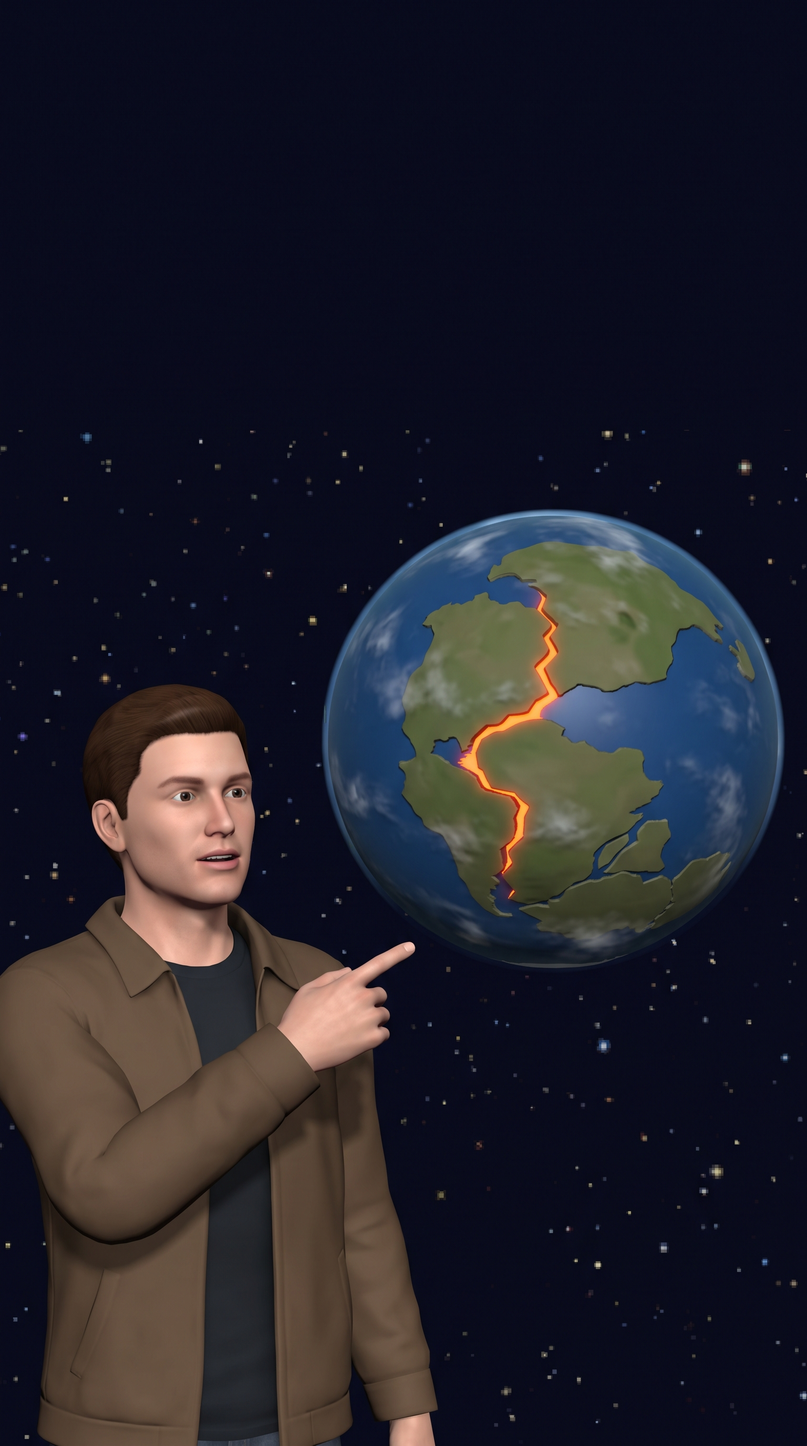
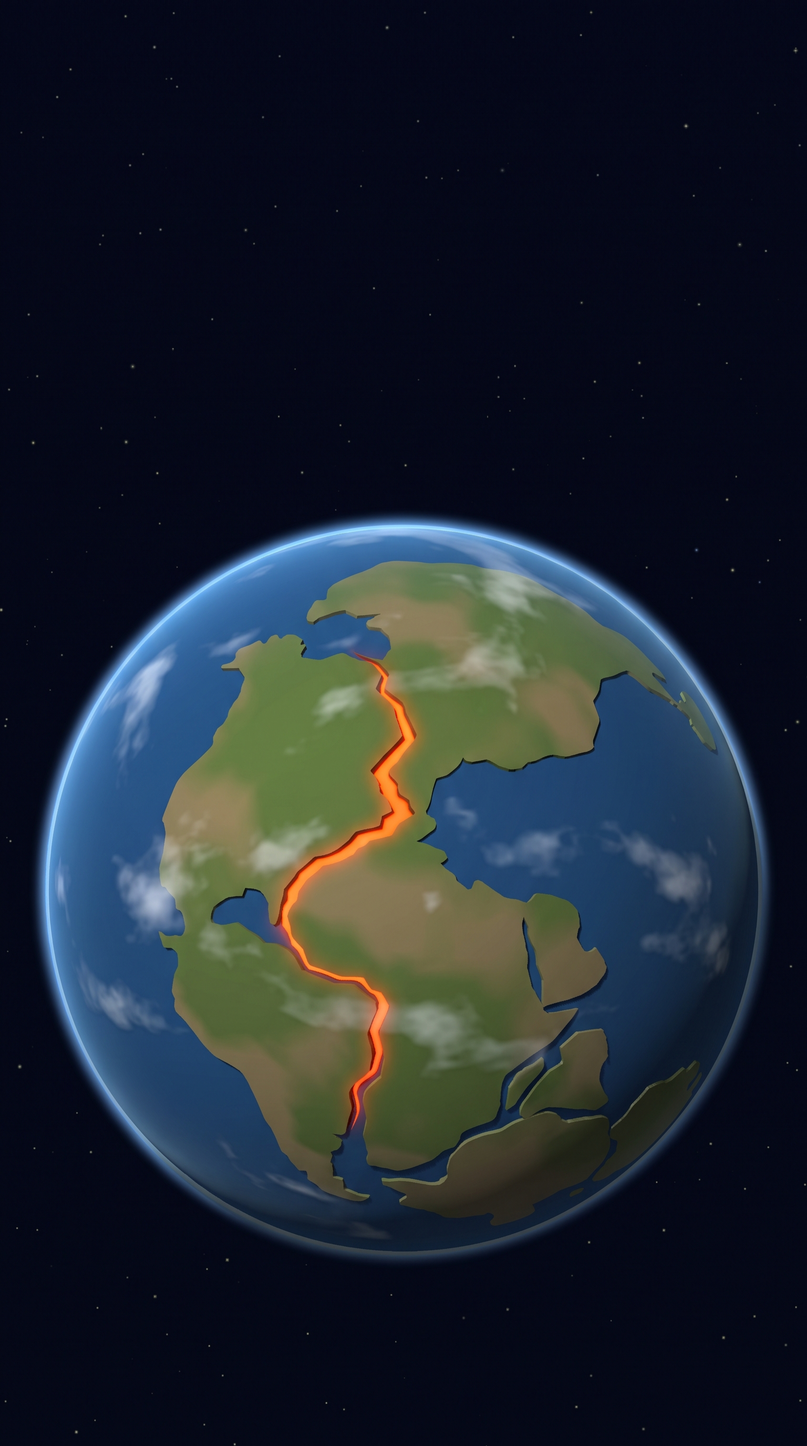
Continents drift Short: S4a, S4b, S6 regenerated (no extra people, clear gesture)
Claude-Session: https://claude.ai/code/session_01KcWrBtThWhQ2oQ8XkNDupx

diff --git a/map_shorts/continents_drift/kf_all.py b/map_shorts/continents_drift/kf_all.py
@@ -9,9 +9,9 @@ K = {
  "S2b": (CHAR + "Close-up of Max's hand resting flat on a light wooden table next to a plain yellow ruler with black tick marks and no numbers; beside the hand a small grey stone block with a thin crack in it; flat light-blue background.", True),
  "S3a": ("A small 15th-century wooden caravel with white sails crosses a calm stylised blue ocean; a giant yellow measuring tape lies flat on the water surface and stretches to the horizon; flat saturated blue sky; simple low-budget 3D look.", False),
  "S3b": (CHAR + "A giant yellow measuring tape lies extended along a flat grey road; a modern plain white-and-blue city bus with no writing is parked right beside it, the bus slightly shorter than the extended tape; Max stands small at the end of the tape pointing at it; flat ground, flat blue sky.", True),
- "S4a": (SPACE + "The globe shows the single supercontinent Pangaea: one big green-brown landmass surrounded by one ocean, a glowing orange crack zigzags through the middle of the landmass.", False),
- "S4b": (SPACE + "The globe shows today's continents spread apart with a wide blue Atlantic Ocean in the middle, a thin glowing orange line along the middle of the Atlantic.", False),
- "S6": (CHAR + "Medium close-up of Max with a smug proud face, holding up one hand next to a plain yellow ruler with no numbers; one of his fingernails is comically long; behind him the same Icelandic rift fissure with dark basalt walls and clear blue water; flat blue sky.", True),
+ "S4a": (SPACE + "NO people, no characters, no humans anywhere, only the globe in space. The globe shows the single supercontinent Pangaea: one big green-brown landmass surrounded by one ocean, a glowing orange crack zigzags through the middle of the landmass.", False),
+ "S4b": (SPACE + "NO people, no characters, no humans anywhere, only the globe in space. The globe shows today's continents spread apart with a wide blue Atlantic Ocean in the middle, a thin glowing orange line along the middle of the Atlantic.", False),
+ "S6": (CHAR + "Medium close-up of Max with a smug proud grin; he holds a plain yellow ruler with no numbers horizontally in front of his chest and lays his INDEX finger flat along the ruler, the index fingernail is comically long; his other hand gives a clear thumbs-up; no other raised fingers; behind him the same Icelandic rift fissure with dark basalt walls and clear blue water; flat blue sky.", True),
 }
 def run(k):
     p, ref = K[k]
